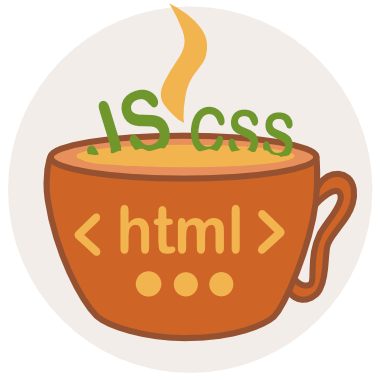
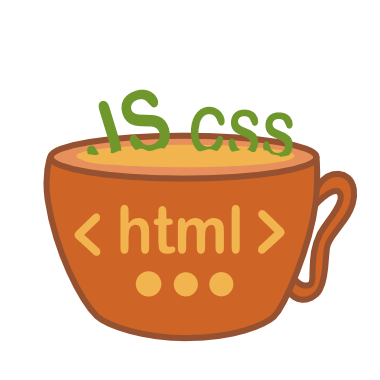
blog add++

Changed region(s): [[0.4053, 0.0, 0.55, 0.3184]]

diff --git a/_sass/common.scss b/_sass/common.scss
@@ -1,4 +1,5 @@
 $green-color: #93B536;
+$gray-site: #f1ece8;
 
 // ------------- common ----------------- //
 
@@ -96,7 +97,7 @@ blockquote {
 		right: 100px;
 
 		height: 2px;
-		background-color: #f1ece8;
+		background-color: $gray-site;
 
 		@include media-query($on-palm) {
 			right: 0;
@@ -144,6 +145,11 @@ blockquote {
 	animation: site-title-anim steps(9) 2.5s infinite;
 }
 
+@keyframes site-bg-anim {
+	from {background-position: 0 0;}
+	to {background-position: -320px 0;}
+}
+
 .site-pic {
 	position: absolute;
 
@@ -155,6 +161,28 @@ blockquote {
 
 	background-image: url('../assets/site/bg.png');
 	background-size: 180px;
+
+	background-color: $gray-site;
+	border-radius: 50%;
+
+	&:after {
+		content: '';
+		width: 35.5px;
+		height: 59px;
+
+		display: block;
+		position: absolute;
+		top: 10px;
+    left: 75px;
+
+		background-image: url('../assets/site/bg-a.png');
+		background-size: 320px 100%;
+		background-position: 0 0;
+
+		animation-timing-function: ease;
+
+		animation: site-bg-anim steps(9) 1.4s infinite;
+	}
 
 	@include media-query($on-palm) {
 		display: none;
@@ -170,7 +198,7 @@ blockquote {
 	font-family: monaco,courier,monospace;
 	color: #999;
 	cursor: default;
-	background-color: #f1ece8;
+	background-color: $gray-site;
 	border-radius: 8px;
 
 	&:before,
@@ -182,7 +210,7 @@ blockquote {
 		width: 4px;
 		height: 12px;
 
-		background-color: #f1ece8;
+		background-color: $gray-site;
 	}
 
 	&:before {
@@ -212,7 +240,7 @@ blockquote {
 
 .site-nav .page-link {
 	padding: 2px 8px;
-	background-color: #f1ece8;
+	background-color: $gray-site;
 
 	@include media-query($on-palm) {
 		text-align: left;
@@ -241,7 +269,7 @@ blockquote {
 .island {
 	padding: 16px;
 
-	background-color: #f1ece8;
+	background-color: $gray-site;
 	border-radius: 8px;
 
 	& + & {
@@ -408,7 +436,7 @@ pre, code {
 }
 .back-to-top-link:focus {
   outline: none;
-  box-shadow: 0 0 0 3px #f1ece8;
+  box-shadow: 0 0 0 3px $gray-site;
 }
 
 // ------------- /botton to top ----------------- //
